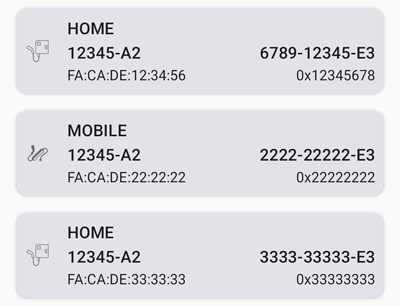
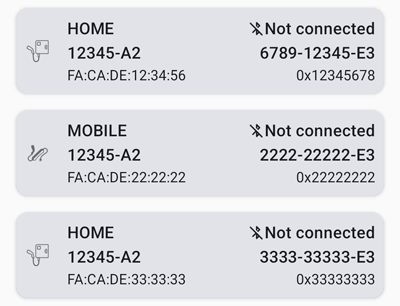
feat: show BLE connection status in GaaiDeviceCard

Changed region(s): [[0.63, 0.7353, 0.96, 0.7941], [0.63, 0.0588, 0.96, 0.1176], [0.63, 0.4118, 0.96, 0.4706]]

diff --git a/app/src/main/java/be/cuypers_ghys/gaai/ui/home/HomeScreen.kt b/app/src/main/java/be/cuypers_ghys/gaai/ui/home/HomeScreen.kt
@@ -32,6 +32,7 @@ import androidx.compose.foundation.layout.fillMaxSize
 import androidx.compose.foundation.layout.fillMaxWidth
 import androidx.compose.foundation.layout.padding
 import androidx.compose.foundation.layout.safeDrawing
+import androidx.compose.foundation.layout.size
 import androidx.compose.foundation.layout.width
 import androidx.compose.foundation.lazy.LazyColumn
 import androidx.compose.foundation.lazy.items
@@ -75,6 +76,7 @@ import be.cuypers_ghys.gaai.data.ChargerType
 import be.cuypers_ghys.gaai.data.Device
 import be.cuypers_ghys.gaai.ui.AppViewModelProvider
 import be.cuypers_ghys.gaai.ui.GaaiTopAppBar
+import be.cuypers_ghys.gaai.ui.device.ConnectionState
 import be.cuypers_ghys.gaai.ui.navigation.NavigationDestination
 import be.cuypers_ghys.gaai.ui.permissions.RequireBluetooth
 import be.cuypers_ghys.gaai.ui.theme.GaaiTheme
@@ -330,7 +332,7 @@ fun GaaiDeviceItem(
     backgroundContent = { DismissBackground(dismissState) }
   ) {
     GaaiDeviceCard(
-      device, modifier = Modifier
+      device, ConnectionState.NOT_CONNECTED, modifier = Modifier
         .padding(dimensionResource(id = R.dimen.padding_small))
         .clickable { onDeviceClick(device) })
   }
@@ -338,8 +340,44 @@ fun GaaiDeviceItem(
 }
 
 /**
+ * Converts [ConnectionState] to a string value to display.
+ * @param connectionState
+ * @return The corresponding string.
+ *
+ * @author Frank HJ Cuypers
+ */
+@Composable
+private fun connectionStateToText(connectionState: ConnectionState) = when (connectionState) {
+  ConnectionState.CONNECTED -> stringResource(R.string.gatt_client_connected_services)
+  ConnectionState.NOT_CONNECTED -> stringResource(R.string.gatt_client_not_connected)
+  ConnectionState.CONNECTING -> stringResource(R.string.gatt_client_connecting)
+  ConnectionState.DISCOVERING -> stringResource(R.string.gatt_client_discovering_services)
+  else -> {
+    stringResource(R.string.gatt_client_connection_status_unknown)
+  }
+}
+
+/**
+ * Converts [ConnectionState] to a corresponding icon to display.
+ * @param connectionState
+ * @return The corresponding icon.
+ *
+ * @author Frank HJ Cuypers
+ */
+@Composable
+private fun connectionStateToPainter(connectionState: ConnectionState) = when (connectionState) {
+  ConnectionState.CONNECTED -> painterResource(R.drawable.bluetooth_connected_24px)
+  ConnectionState.NOT_CONNECTED -> painterResource(R.drawable.bluetooth_disabled_24px)
+  ConnectionState.CONNECTING, ConnectionState.DISCOVERING -> painterResource(R.drawable.bluetooth_searching_24px)
+  else -> {
+    painterResource(R.drawable.bluetooth_disabled_24px)
+  }
+}
+
+/**
  * Implements a [Card] displaying the details of the [device].
  * @param device The [Device] to display.
+ * @param connectionState The connection state of the device
  * @param modifier The [Modifier] to be applied to this [GaaiDeviceCard]
  *
  * @author Frank HJ Cuypers
@@ -348,7 +386,7 @@ fun GaaiDeviceItem(
 @Composable
 // TODO: factorize to its own file, since it is also used in DeviceEntryScreen.kt and DeviceDetailScreen.kt
 internal fun GaaiDeviceCard(
-  device: Device, modifier: Modifier = Modifier
+  device: Device, connectionState: ConnectionState, modifier: Modifier = Modifier
 ) {
   Log.d(TAG, "Entered GaaiDeviceCard with device = $device")
   Card(
@@ -377,10 +415,21 @@ internal fun GaaiDeviceCard(
           .weight(1f)
       ) {
         Row(
-          modifier = Modifier.fillMaxWidth()
+          verticalAlignment = Alignment.CenterVertically,
+          modifier = Modifier.fillMaxWidth(),
         ) {
           Text(
             text = device.type.toString(),
+            style = MaterialTheme.typography.titleMedium,
+          )
+          Spacer(Modifier.weight(1f))
+          Icon(
+            painter = connectionStateToPainter(connectionState),
+            contentDescription = stringResource(id = R.string.ev_charger_content_desc),
+            modifier = Modifier.size(MaterialTheme.typography.titleMedium.fontSize.value.dp)
+          )
+          Text(
+            text = connectionStateToText(connectionState),
             style = MaterialTheme.typography.titleMedium,
           )
         }
@@ -494,6 +543,7 @@ fun DevicePreviewHOME() {
   GaaiTheme {
     GaaiDeviceCard(
       Device(1, "12345-A2", "6789-12345-E3", "FA:CA:DE:12:34:56", 0x12345678, ChargerType.HOME),
+      ConnectionState.NOT_CONNECTED
     )
   }
 }
@@ -504,6 +554,7 @@ fun DevicePreviewMOBILE() {
   GaaiTheme {
     GaaiDeviceCard(
       Device(1, "12345-A2", "6789-12345-E3", "FA:CA:DE:12:34:56", 0x12345678, ChargerType.MOBILE),
+      ConnectionState.NOT_CONNECTED
     )
   }
 }
@@ -514,6 +565,7 @@ fun DevicePreviewUNKNOWN() {
   GaaiTheme {
     GaaiDeviceCard(
       Device(1, "12345-A2", "6789-12345-E3", "FA:CA:DE:12:34:56", 0x12345678, ChargerType.UNKNOWN),
+      ConnectionState.NOT_CONNECTED
     )
   }
 }

diff --git a/app/src/main/java/be/cuypers_ghys/gaai/ui/device/DeviceDetailsViewModel.kt b/app/src/main/java/be/cuypers_ghys/gaai/ui/device/DeviceDetailsViewModel.kt
@@ -161,15 +161,19 @@ class DeviceDetailsViewModel(
     Log.d(TAG, "Starting Gatt Client for gaaiDevice: $gaaiDevice")
 
     //Connect a Bluetooth LE device.
+    updateDeviceState(DeviceState(ConnectionState.CONNECTING))
     val client = bleRepository.getClientBleGattConnection(gaaiDevice.mac, viewModelScope).also {
       this@DeviceDetailsViewModel.client = it
     }
 
     if (!client.isConnected) {
       Log.d(TAG, "Gatt Client not connected.")
+      updateDeviceState(DeviceState(ConnectionState.NOT_CONNECTED))
       return@launch
     }
+
     Log.d(TAG, "Gatt Client connected. Discovering services.")
+    updateDeviceState(DeviceState(ConnectionState.DISCOVERING))
 
     /*
      * Bluetooth caches the BLE GATT table.
@@ -256,6 +260,7 @@ class DeviceDetailsViewModel(
           NexxtenderHomeSpecification.UUID_NEXXTENDER_HOME_GENERIC_DATA_CHARACTERISTIC
         )!!
     }
+    updateDeviceState(DeviceState(ConnectionState.CONNECTED))
 
     // Read static information
     val deviceName = deviceNameCharacteristic.read().value.toString(Charsets.UTF_8)
@@ -641,8 +646,15 @@ class DeviceDetailsViewModel(
       }
     }
   }
-}
 
+  /**
+   * Updates the [deviceState] with the value provided in the argument.
+   * @param deviceState The DeviceState.
+   */
+  private fun updateDeviceState(deviceState: DeviceState) {
+    _state.value = _state.value.copy(deviceState = deviceState)
+  }
+}
 
 /**
  * Represents Device Information fields.
@@ -654,11 +666,24 @@ data class DeviceInformation(
   val hardwareRevision: String = ""
 )
 
+enum class ConnectionState {
+  UNKNOWN, CONNECTING, DISCOVERING, CONNECTED, NOT_CONNECTED
+}
+
+/**
+ * Represents Device State.
+ */
+data class DeviceState(
+  val connectionState: ConnectionState = ConnectionState.UNKNOWN
+)
+
+
 /**
  * Represents View State for a Device.
  */
 data class DeviceDetailsViewState(
   val deviceName: String = "",
+  val deviceState: DeviceState = DeviceState(),
   val deviceInformation: DeviceInformation = DeviceInformation(),
   val chargingBasicData: ChargingBasicData = ChargingBasicData(),
   val chargingGridData: ChargingGridData = ChargingGridData(),

diff --git a/app/src/main/java/be/cuypers_ghys/gaai/ui/device/DeviceDetailScreen.kt b/app/src/main/java/be/cuypers_ghys/gaai/ui/device/DeviceDetailScreen.kt
@@ -228,6 +228,7 @@ fun DeviceDetailsBody(
     device?.let {
       GaaiDeviceCard(
         device = it,
+        state.deviceState.connectionState,
         modifier = Modifier
           .padding(dimensionResource(id = R.dimen.padding_small))
       )
@@ -1987,6 +1988,7 @@ private fun DeviceDetailsHomePreview() {
       ),
       state = DeviceDetailsViewState(
         deviceName = "HOME2_",
+        deviceState = DeviceState(ConnectionState.CONNECTED),
         deviceInformation = DeviceInformation(
           modelNumber = "12345", serialNumber = "12345",
           firmwareRevision = "1.23.4", hardwareRevision = "A2"
@@ -2043,6 +2045,7 @@ private fun DeviceDetailsMobilePreview() {
       ),
       state = DeviceDetailsViewState(
         deviceName = "Mobile2_",
+        deviceState = DeviceState(ConnectionState.CONNECTED),
         deviceInformation = DeviceInformation(
           modelNumber = "12345", serialNumber = "12345",
           firmwareRevision = "1.23.4", hardwareRevision = "A2"

diff --git a/app/src/main/java/be/cuypers_ghys/gaai/ui/device/DeviceEntryScreen.kt b/app/src/main/java/be/cuypers_ghys/gaai/ui/device/DeviceEntryScreen.kt
@@ -200,6 +200,7 @@ fun DeviceDataForm(
   ) {
     GaaiDeviceCard(
       device = deviceUiState.deviceDetails.toDevice(),
+      ConnectionState.NOT_CONNECTED,
       modifier = Modifier
         .padding(dimensionResource(id = R.dimen.padding_small))
     )

diff --git a/README.md b/README.md
@@ -184,22 +184,22 @@ as is shown in
 
 When a valid PN and SN are entered, the *Scan Device* button become active.
 
-![Device Entry Empty](docs/images/DeviceEntryCorrectSNPN.png)
+![Device Entry Correct with SN and PN](docs/images/DeviceEntryCorrectSNPN.png)
 
 Make sure that you are close to the *Nexxtender* device and that no other device is connected with it over BLE.
 Tap the *Scan Device* button. Scanning will start and the button will now show *Cancel Scanning* allowing you to
 cancel the scan if it takes to long.
 
-![Device Entry Empty](docs/images/DeviceEntryScanning.png)
+![Device Entry Scanning](docs/images/DeviceEntryScanning.png)
 
 If you entered the correct PN and SN,
 *Gaai* should find the *Nexxtender* in less then a few seconds and show the following screen.
 
-![Device Entry Empty](docs/images/DeviceEntryFound.png)
+![Device Entry Found](docs/images/DeviceEntryFound.png)
 
 Gaai shows a card with the details of the found device.
 
-+ At the top is the type of the Nexxtender Charger: HOME or MOBILE.
++ At the top is the type of the Nexxtender Charger: HOME or MOBILE. The BLE connection status is still *Not connected*.
 + At the middle left is the PN.
 + At the middle right is the SN.
 + At the bottom left is the MAC.
@@ -210,7 +210,7 @@ This will bring you back to the previous screen, now showing one device.
 
 If the device that you scanned was already in *Gaai's* database, you will see
 
-![Device Entry Empty](docs/images/DeviceEntryDuplicate.png)
+![Device Entry Duplicate](docs/images/DeviceEntryDuplicate.png)
 
 *Gaai* will not let you create duplicates.
 
@@ -219,7 +219,7 @@ If the device that you scanned was already in *Gaai's* database, you will see
 As soon as the database contains at least one device, *Gaai* shows a list of all registered devices at startup as
 shown in the next picture.
 
-![Device Entry Empty](docs/images/HomeScreenThreeDevices.png)
+![Home Screen with 3 Devices](docs/images/HomeScreenThreeDevices.png)
 
 In this screen you can
 
@@ -241,7 +241,17 @@ You must scroll up to see the other parts.
 When the screen opens, only the labels are shown without data values.
 The values are populated as soon as *Gaai* has established the connection and read all the data.
 That can take 5 seconds.
-If no data appears after a few seconds,
+The BLE connection status at the top right of the first card can have the following values:
+
+| Value         | Icon                                                                                         | Description                                                              |
+|---------------|----------------------------------------------------------------------------------------------|--------------------------------------------------------------------------|
+| Not connected | ![Not connected](docs/images/bluetooth_disabled_24dp_1F1F1F_FILL0_wght400_GRAD0_opsz24.svg)  | Gaai is not connected with the charger                                   |
+| Connecting    | ![Not connected](docs/images/bluetooth_searching_24dp_1F1F1F_FILL0_wght400_GRAD0_opsz24.svg) | Gaai is trying to connect to the charger                                 |
+| Discovering   | ![Discovering](docs/images/bluetooth_searching_24dp_1F1F1F_FILL0_wght400_GRAD0_opsz24.svg)   | Gaai is connected to the charger and is now discovering its BLE services |
+| Connected     | ![Connected](docs/images/bluetooth_connected_24dp_1F1F1F_FILL0_wght400_GRAD0_opsz24.svg)     | Gaai is connected to the charger and has discovered all its BLE services | 
+| Unknown       | ![Unknown](docs/images/bluetooth_disabled_24dp_1F1F1F_FILL0_wght400_GRAD0_opsz24.svg)        | Should not happen                                                        |
+
+If the BLE status stays *Not connected*,
 it might be that another BLE client is still connected to the device.
 It could also be a problem in *Gaai*.
 It is normally solved by going back to the previous screen using the left arrow at the top left of the screen,
